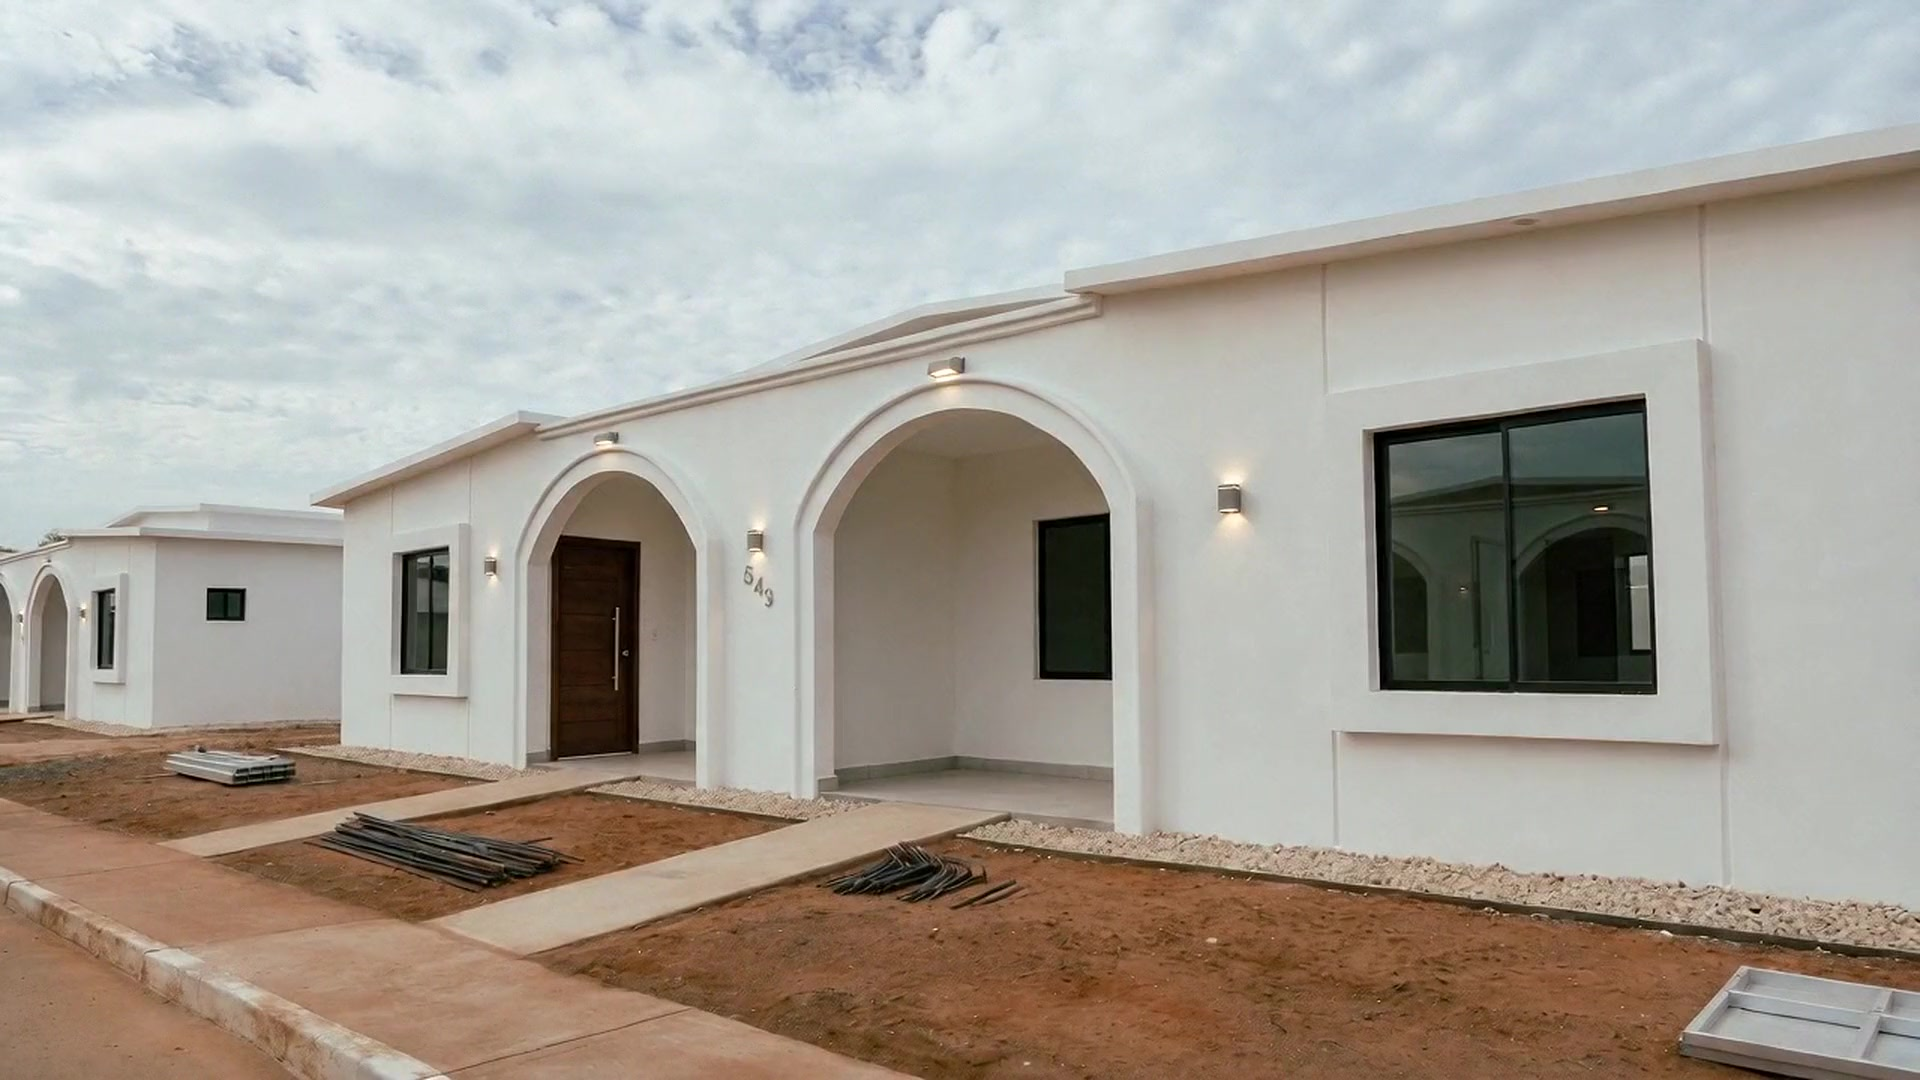
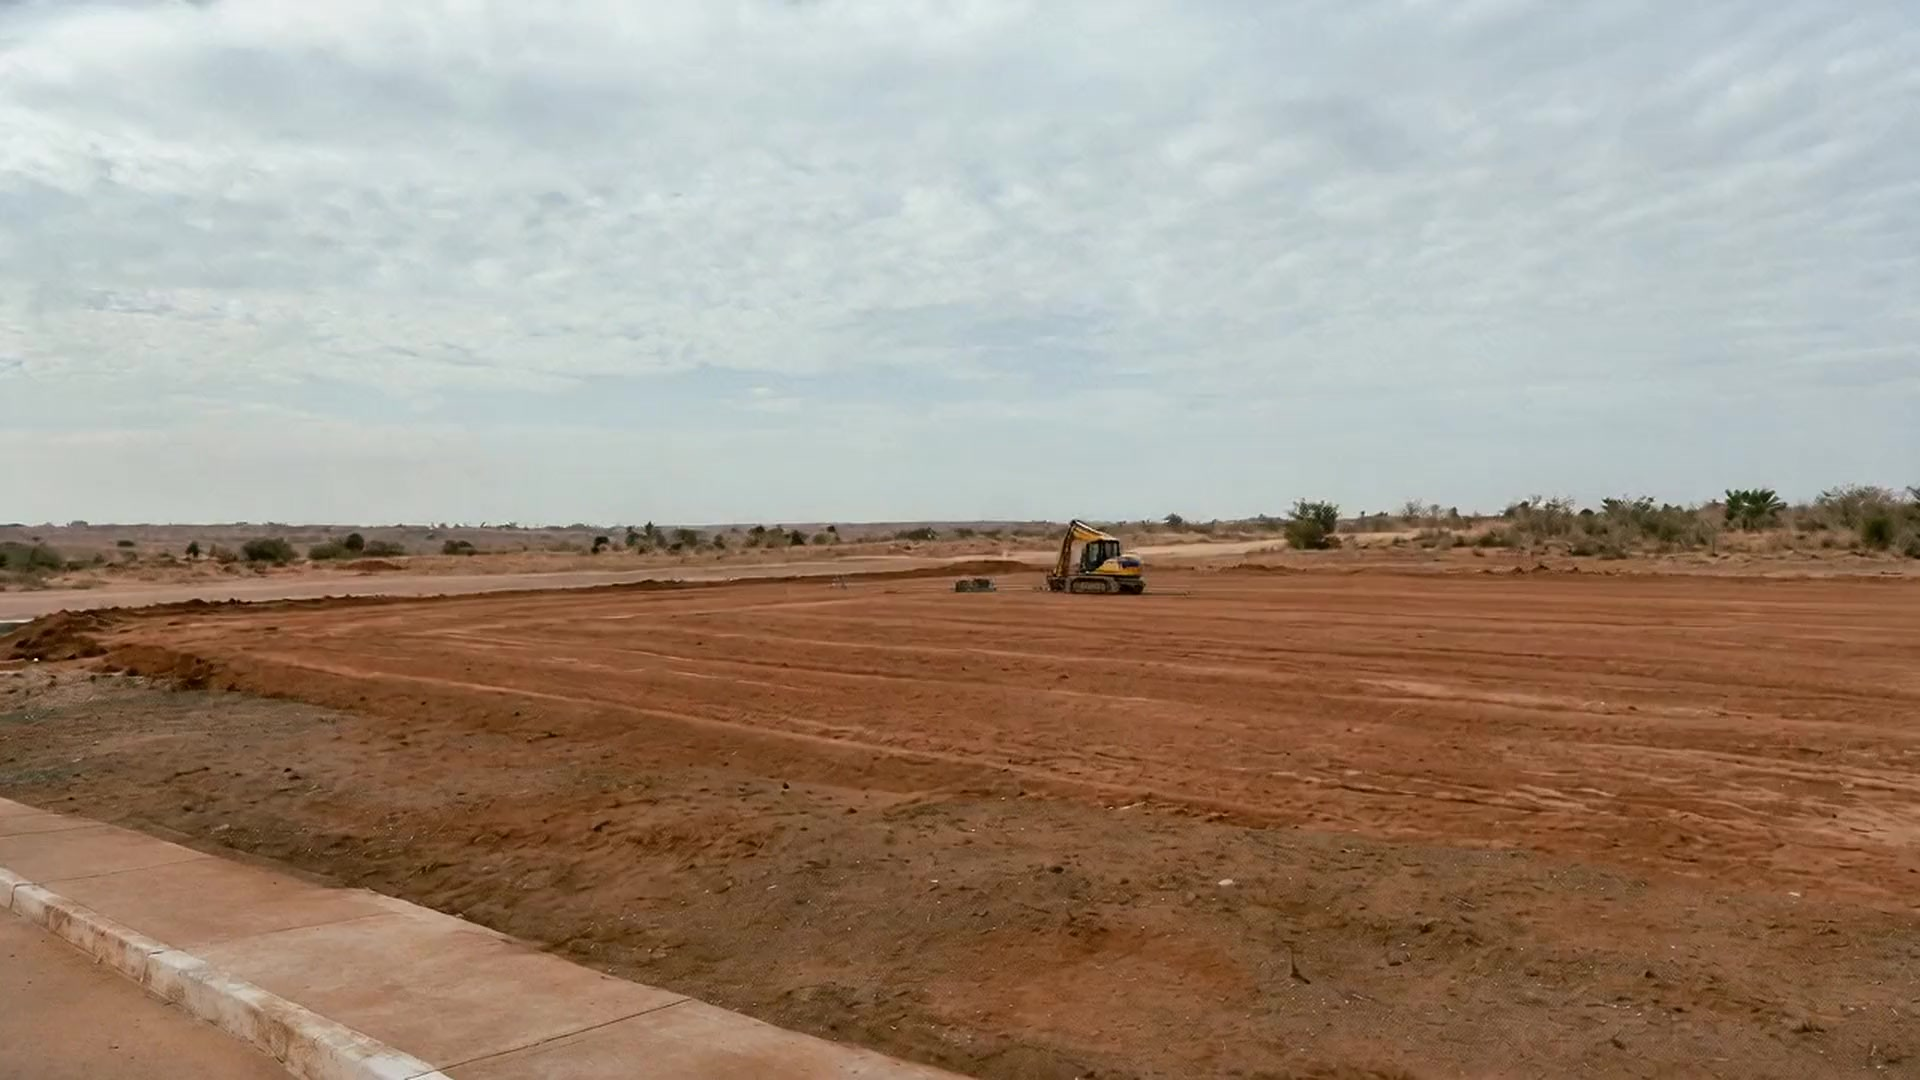
Hero: poster con el primer frame del video para abrir en el terreno vacio

diff --git a/components/ScrollConstructionHero.tsx b/components/ScrollConstructionHero.tsx
@@ -160,7 +160,7 @@ export default function ScrollConstructionHero() {
         {/* eslint-disable-next-line @next/next/no-img-element */}
         <img
           src={site.hero.poster}
-          alt="Vivienda terminada del conjunto Portal del Rosario"
+          alt="Terreno en preparación para la construcción de un conjunto residencial de GEMO"
           className="absolute inset-0 h-full w-full object-cover opacity-60"
         />
         <div className="absolute inset-0 bg-gradient-to-t from-ink-950 via-ink-950/30 to-transparent" />